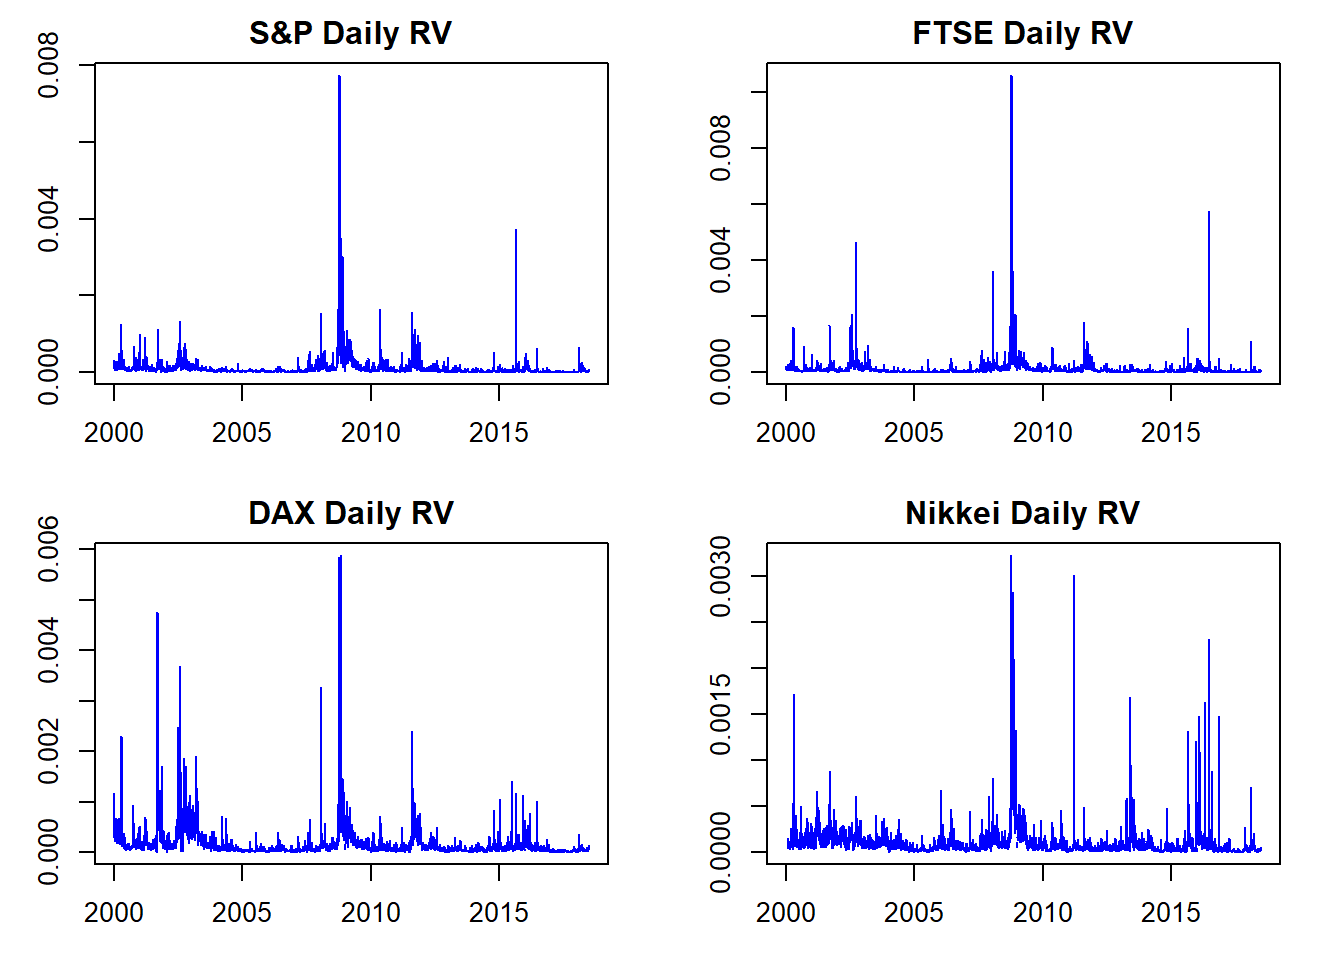
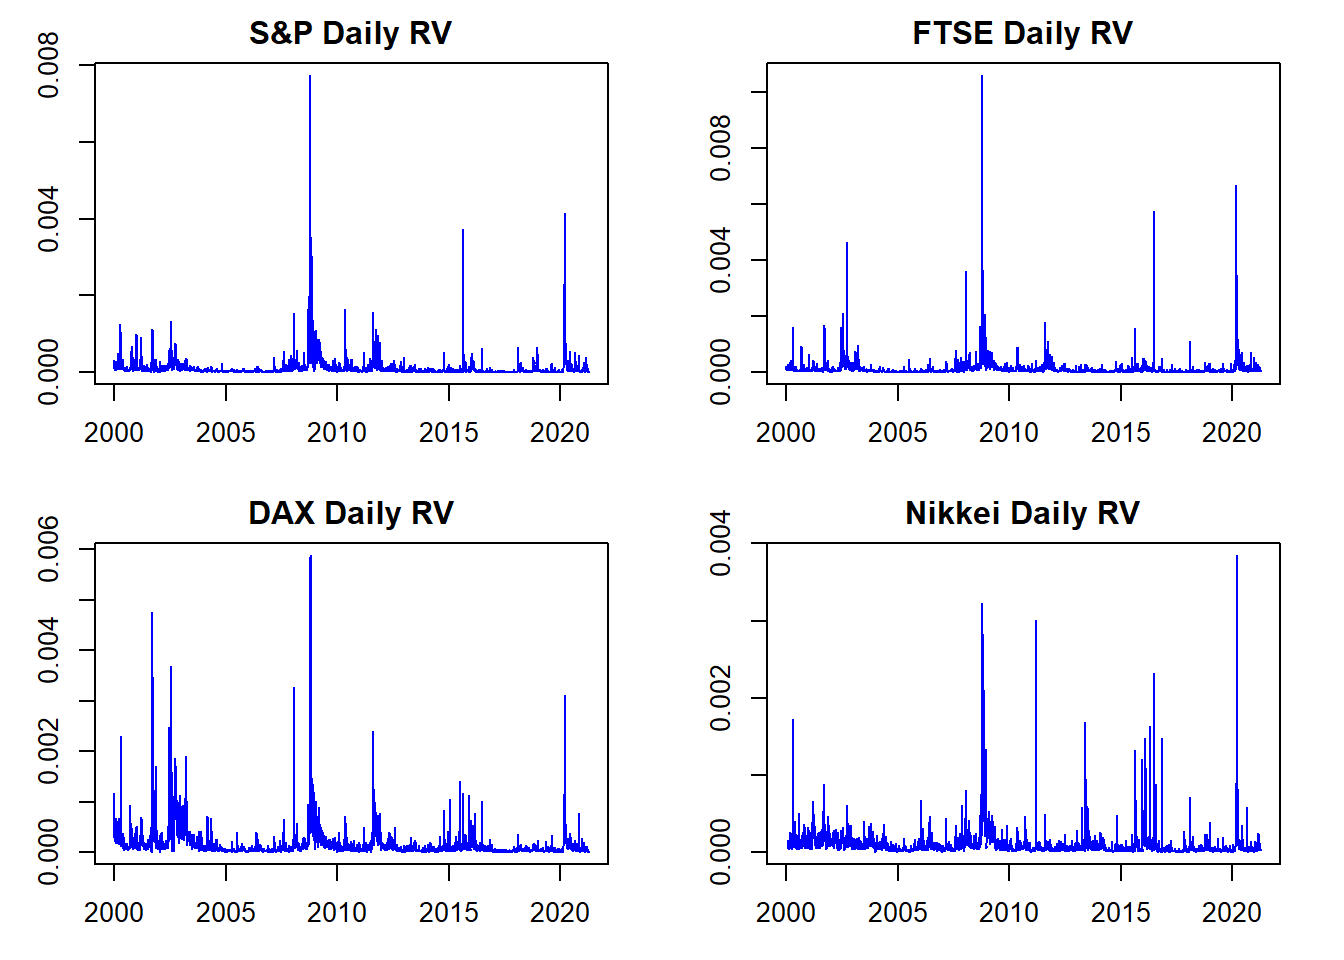
docs - changed to Tomasz RV data

diff --git a/docs/index.html b/docs/index.html
@@ -558,16 +558,16 @@ p(\Sigma|Y,X) &amp;= IW_N(\bar{S},\bar{\nu}) \\
 <span id="cb2-27"><a href="#cb2-27" aria-hidden="true" tabindex="-1"></a></span>
 <span id="cb2-28"><a href="#cb2-28" aria-hidden="true" tabindex="-1"></a><span class="fu">round</span>(<span class="fu">apply</span>(res[[<span class="dv">1</span>]],<span class="dv">1</span><span class="sc">:</span><span class="dv">2</span>,mean),<span class="dv">2</span>) <span class="co">#A posterior mean</span></span></code><button title="Copy to Clipboard" class="code-copy-button"><i class="bi"></i></button></pre></div>
 <div class="cell-output cell-output-stdout">
-<pre><code>      [,1]  [,2]
-[1,] -0.07 -0.19
-[2,]  1.00  0.00
-[3,]  0.00  0.99</code></pre>
+<pre><code>      [,1] [,2]
+[1,] -0.22 0.10
+[2,]  0.99 0.00
+[3,]  0.00 0.99</code></pre>
 </div>
 <div class="sourceCode cell-code" id="cb4"><pre class="sourceCode r code-with-copy"><code class="sourceCode r"><span id="cb4-1"><a href="#cb4-1" aria-hidden="true" tabindex="-1"></a><span class="fu">round</span>(<span class="fu">apply</span>(res[[<span class="dv">2</span>]],<span class="dv">1</span><span class="sc">:</span><span class="dv">2</span>,mean),<span class="dv">2</span>) <span class="co">#Sigma posterior mean</span></span></code><button title="Copy to Clipboard" class="code-copy-button"><i class="bi"></i></button></pre></div>
 <div class="cell-output cell-output-stdout">
-<pre><code>     [,1] [,2]
-[1,] 0.89 0.02
-[2,] 0.02 0.99</code></pre>
+<pre><code>      [,1]  [,2]
+[1,]  0.99 -0.04
+[2,] -0.04  1.00</code></pre>
 </div>
 </div>
 <p>As shown above the estimated parameter means closely match the expected values for the data generating process.</p>
@@ -685,20 +685,20 @@ p(\lambda|Y,X,A,\Sigma) &amp;\propto L(A,\Sigma,\lambda|Y,X)p(\lambda) \\
 <span id="cb6-36"><a href="#cb6-36" aria-hidden="true" tabindex="-1"></a></span>
 <span id="cb6-37"><a href="#cb6-37" aria-hidden="true" tabindex="-1"></a><span class="fu">round</span>(<span class="fu">apply</span>(A.posterior.draws, <span class="dv">1</span><span class="sc">:</span><span class="dv">2</span>, mean),<span class="dv">2</span>)</span></code><button title="Copy to Clipboard" class="code-copy-button"><i class="bi"></i></button></pre></div>
 <div class="cell-output cell-output-stdout">
-<pre><code>      [,1]  [,2]
-[1,] -0.07 -0.19
-[2,]  1.00  0.00
-[3,]  0.00  0.99</code></pre>
+<pre><code>      [,1] [,2]
+[1,] -0.23 0.11
+[2,]  0.99 0.00
+[3,]  0.00 0.99</code></pre>
 </div>
 <div class="sourceCode cell-code" id="cb8"><pre class="sourceCode r code-with-copy"><code class="sourceCode r"><span id="cb8-1"><a href="#cb8-1" aria-hidden="true" tabindex="-1"></a><span class="fu">round</span>(<span class="fu">apply</span>(Sigma.posterior.draws, <span class="dv">1</span><span class="sc">:</span><span class="dv">2</span>, mean),<span class="dv">2</span>)</span></code><button title="Copy to Clipboard" class="code-copy-button"><i class="bi"></i></button></pre></div>
 <div class="cell-output cell-output-stdout">
-<pre><code>     [,1] [,2]
-[1,] 0.89 0.02
-[2,] 0.02 0.99</code></pre>
+<pre><code>      [,1]  [,2]
+[1,]  0.99 -0.04
+[2,] -0.04  0.99</code></pre>
 </div>
 <div class="sourceCode cell-code" id="cb10"><pre class="sourceCode r code-with-copy"><code class="sourceCode r"><span id="cb10-1"><a href="#cb10-1" aria-hidden="true" tabindex="-1"></a><span class="fu">round</span>(<span class="fu">mean</span>(lambda.posterior.draws),<span class="dv">2</span>)</span></code><button title="Copy to Clipboard" class="code-copy-button"><i class="bi"></i></button></pre></div>
 <div class="cell-output cell-output-stdout">
-<pre><code>[1] 1</code></pre>
+<pre><code>[1] 1.01</code></pre>
 </div>
 </div>
 <p>As can be seen, when the extended model estimation routine is applied to the simulated bivariate random walk data, the estimates of <span class="math inline">\(A\)</span> and <span class="math inline">\(\Sigma\)</span> again match the true parameter values closely.</p>
